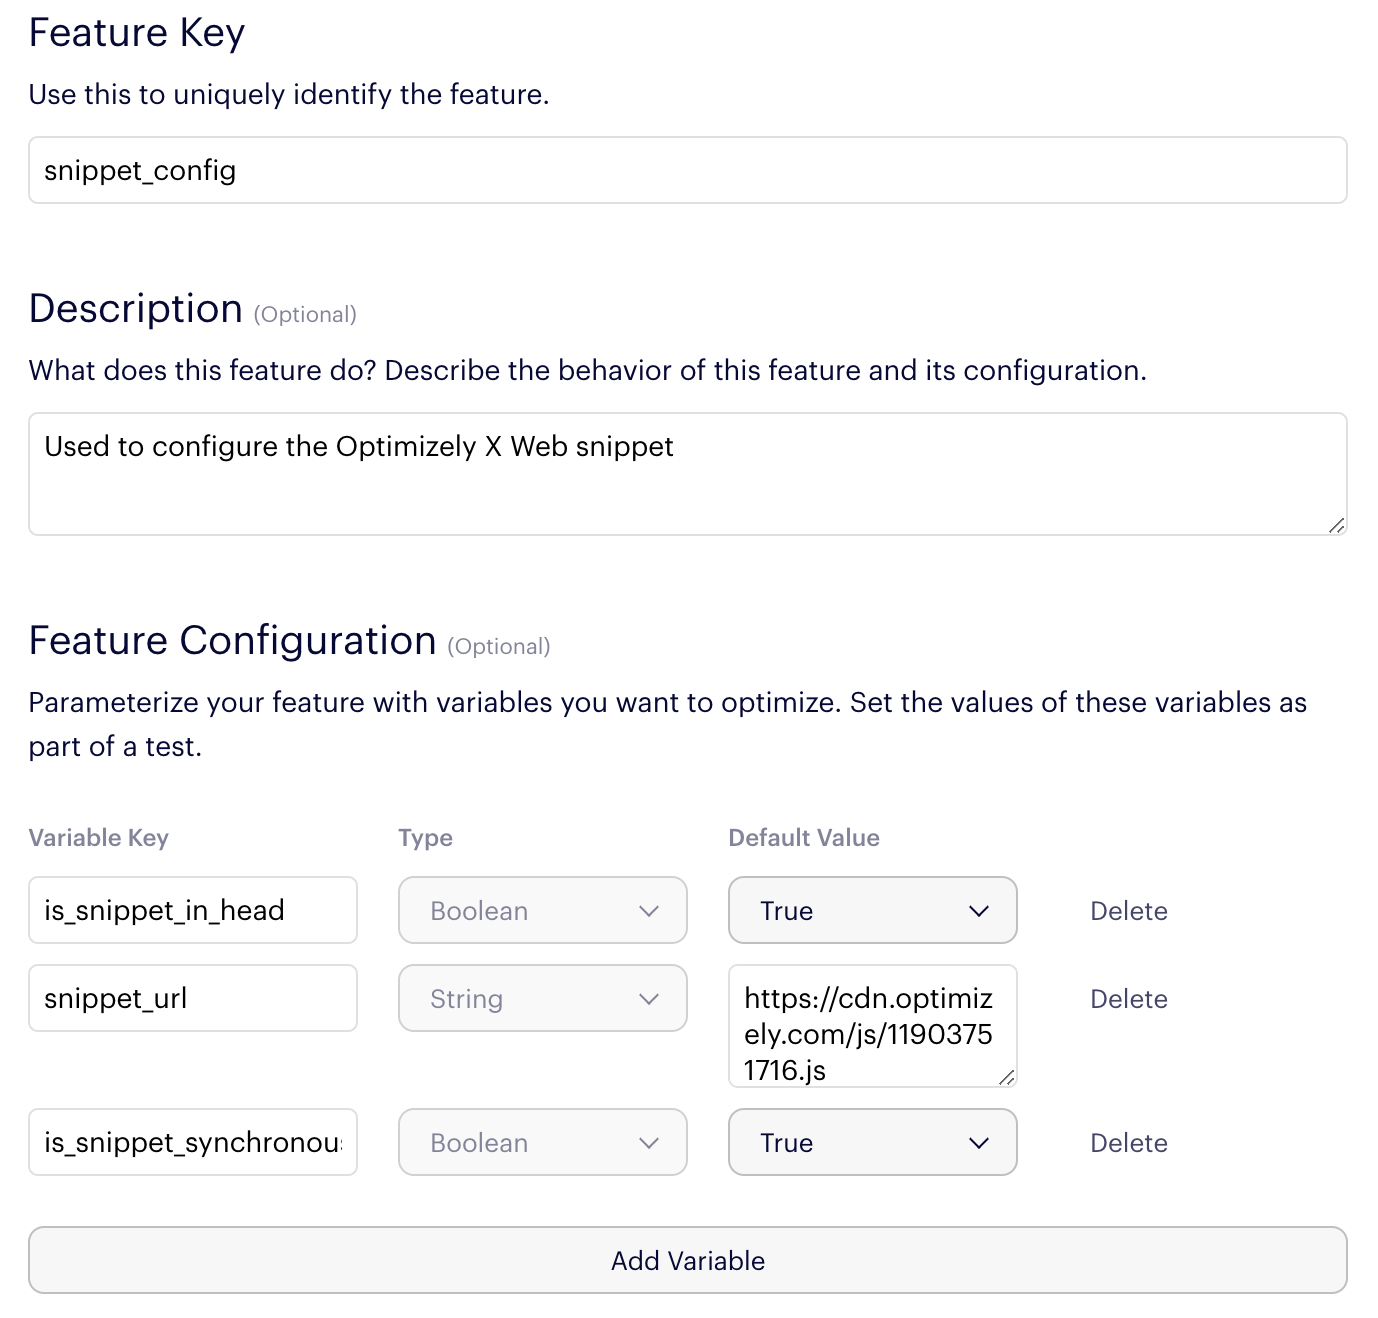
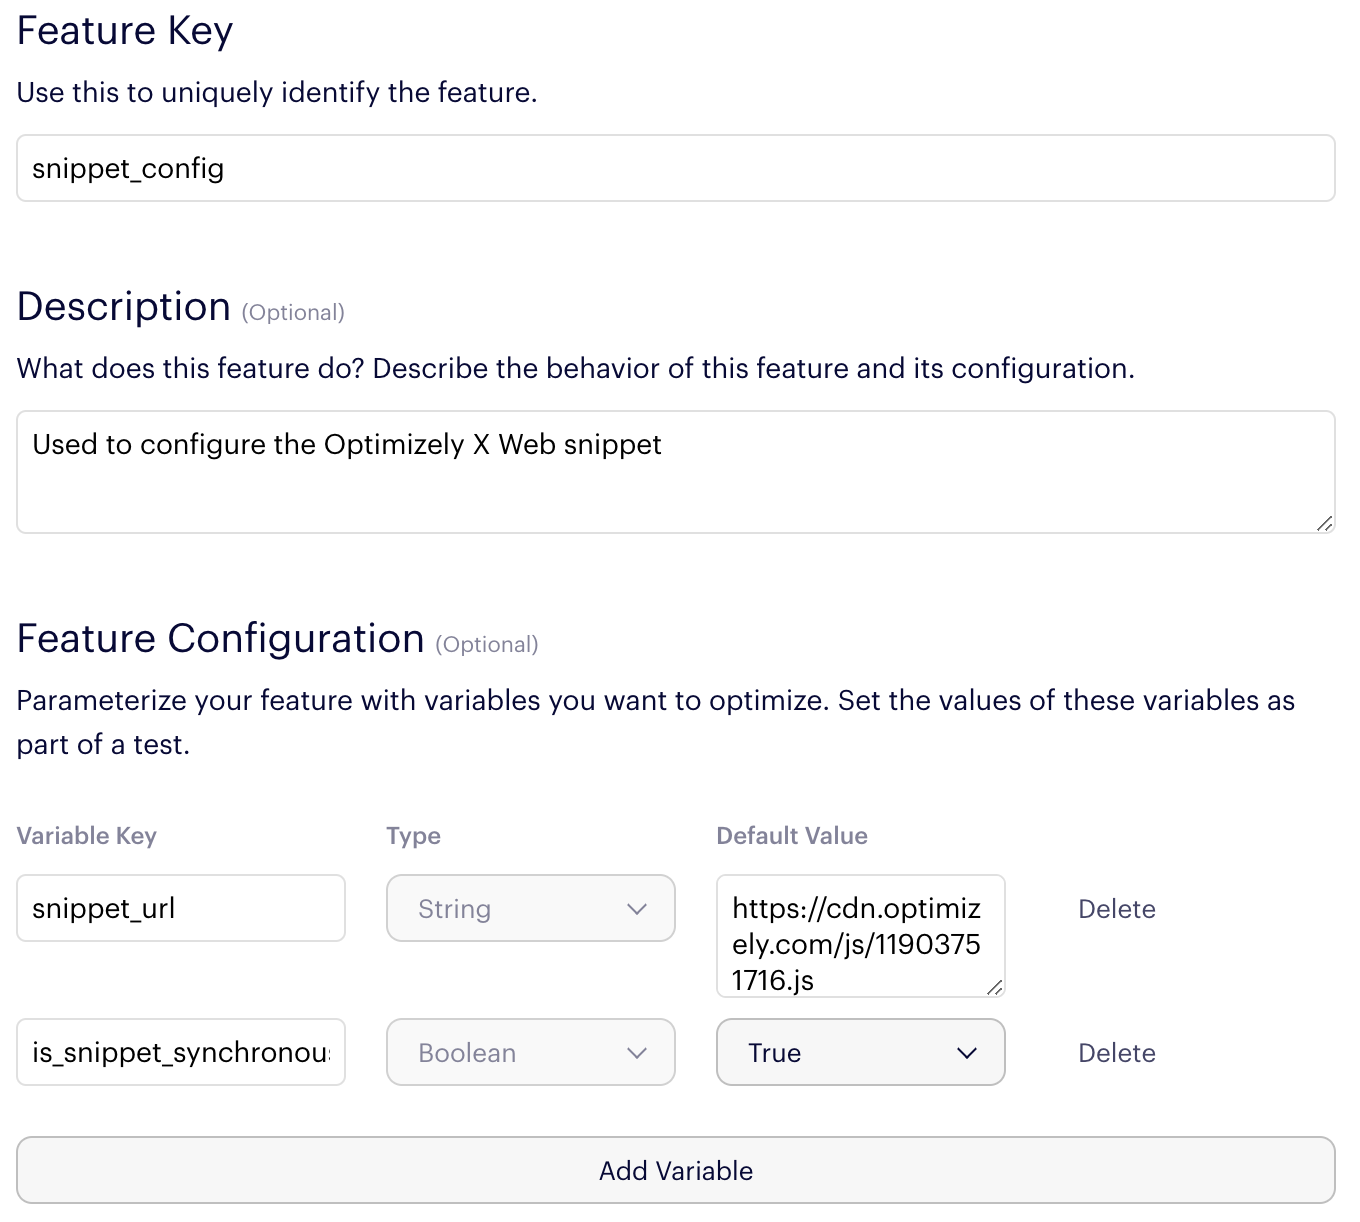
Further simplification

diff --git a/templates/optimizely_web_snippet.html b/templates/optimizely_web_snippet.html
@@ -1,4 +1,4 @@
-{% if is_snippet_active %}
+{% if is_snippet_enabled %}
   {% if is_snippet_synchronous %}
     <!-- Load the Optimizely Web client synchronously. -->
     <script src="{{ snippet_url }}"></script>

diff --git a/application.py b/application.py
@@ -23,7 +23,7 @@ SNIPPET_CONFIG_FULL_STACK_SDK_KEY = None
 USER_ID = ''
 
 # Initialization
-optimizely = OptimizelyConfigManager(SNIPPET_CONFIG_FULL_STACK_SDK_KEY).get_instance()
+config_manager = OptimizelyConfigManager(SNIPPET_CONFIG_FULL_STACK_SDK_KEY)
 application = Flask(__name__, static_folder='images')
 application.secret_key = os.urandom(24)
 
@@ -35,16 +35,22 @@ application.secret_key = os.urandom(24)
 @application.route('/')
 def index():
   """Request handler for '/'; renders templates/index.html."""
+  optimizely_client = config_manager.get_instance()
   return render_template('index.html',
-    is_snippet_active=optimizely.is_feature_enabled('snippet_config', USER_ID),
-    is_snippet_synchronous=optimizely.get_feature_variable_boolean('snippet_config', 'is_snippet_synchronous', USER_ID),
-    snippet_url=optimizely.get_feature_variable_string('snippet_config', 'snippet_url', USER_ID))
+    is_snippet_enabled=optimizely_client.is_feature_enabled('snippet_config', 
+                                                            USER_ID),
+    is_snippet_synchronous=optimizely_client.get_feature_variable_boolean('snippet_config', 
+                                                                          'is_snippet_synchronous', 
+                                                                          USER_ID),
+    snippet_url=optimizely_client.get_feature_variable_string('snippet_config', 
+                                                              'snippet_url', 
+                                                              USER_ID))
  
 # render homepage
 @application.route('/refresh')
 def refresh_datafile():
   """Request handler for '/refresh'; used to manually trigger a datafile refresh."""
-  datafile = config_manager.set_obj()
+  datafile = config_manager.set_instance()
   return datafile, 200, {'ContentType':'application/json'} 
 
 ##

diff --git a/README.md b/README.md
@@ -34,7 +34,6 @@ Here's a rough schema for the "Snippet Configuration" Full Stack project this ap
 
       Full Stack "Snippet Configuration" Project
         Feature: snippet_config
-          Variable: is_snippet_in_head (default value: True)
           Variable: snippet_url (default value: "https://cdn.optimizely.com/js/11903751716.js")
           Variable: is_snippet_synchronous (default value: True)
 
